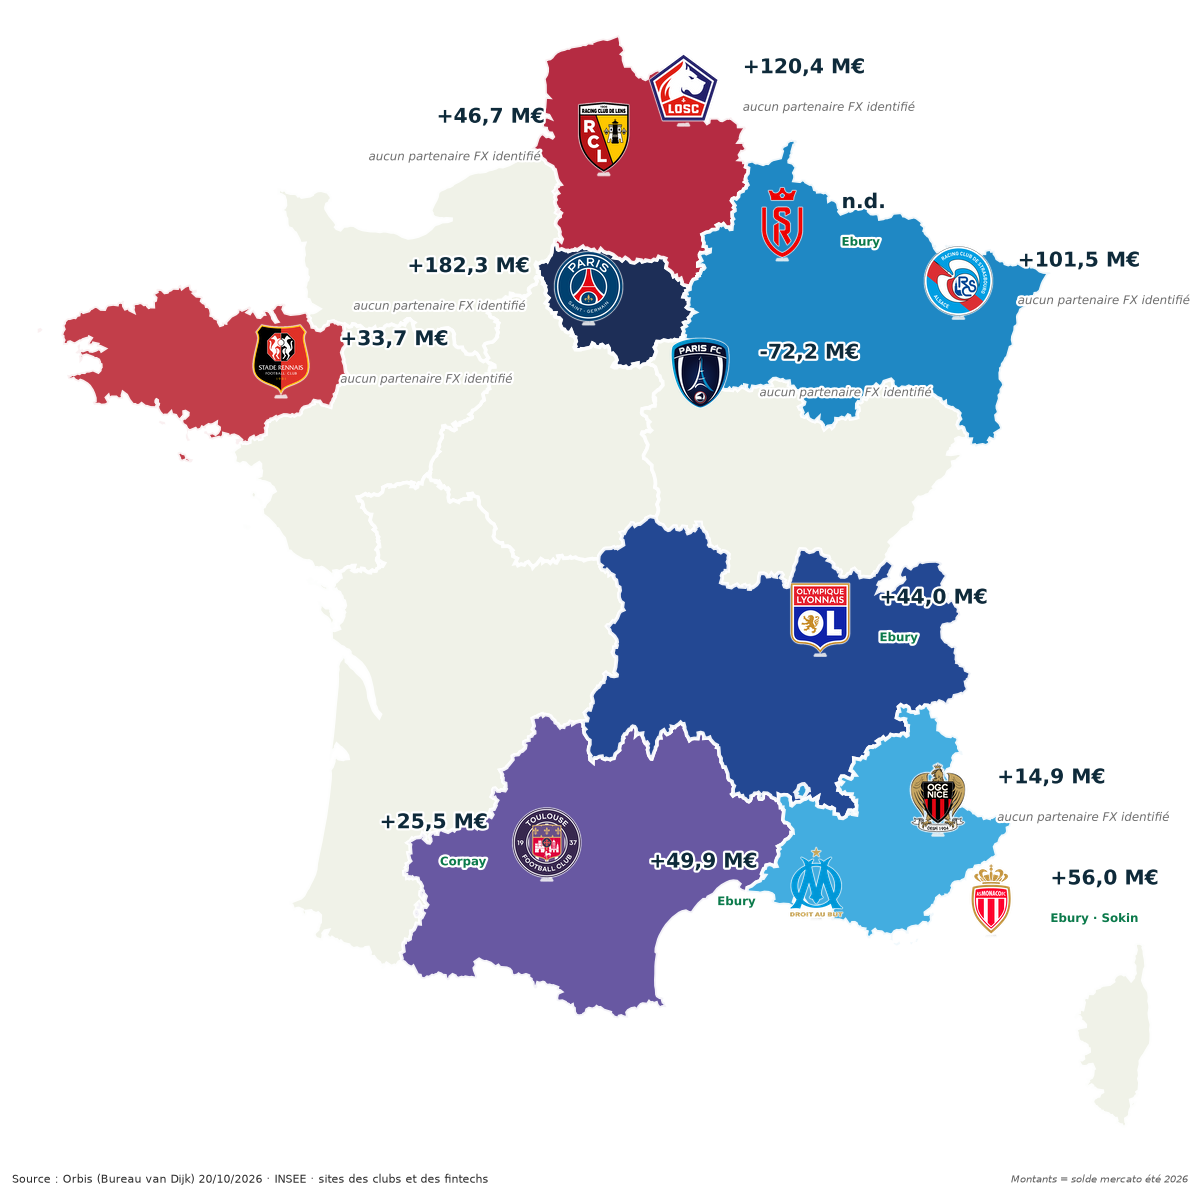
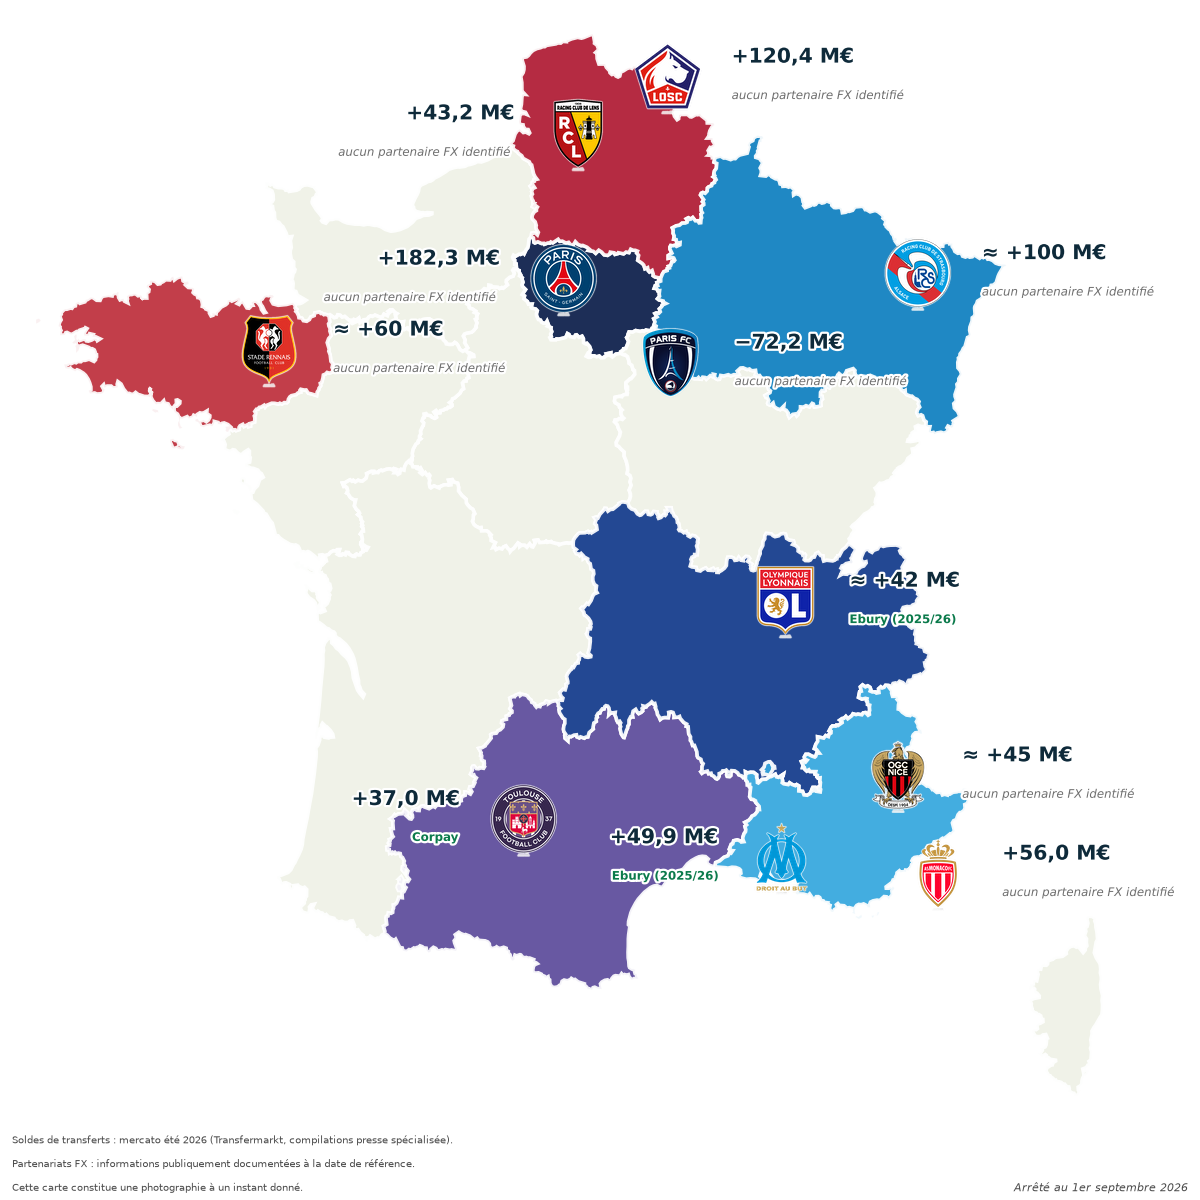
Carte finale: 11 clubs, soldes recoupes (Rennes, Nice, Lens, OL, TFC corriges), partenariats dates, Reims retire, methodologie en pied

diff --git a/linkedin/2026-10-23-FX-football/build_carte_couleurs.py b/linkedin/2026-10-23-FX-football/build_carte_couleurs.py
@@ -53,26 +53,31 @@ C_PARTNER = "#0B7A4B"        # vert plus visible, reste sobre
 C_NO = "#6E6E6E"
 
 # Offsets uniformes du bloc texte, relatifs au centre du logo
-DX = 0.78                    # distance horizontale logo -> texte
+DX = 0.88                    # distance horizontale logo -> texte
 DY_AMOUNT = 0.175            # montant au-dessus du centre
 DY_PARTNER = -0.175          # partenaire sous le centre
 F_AMOUNT = 14.6              # +12 % par rapport à 13.0
 F_PARTNER = 8.5
 
+METHOD = [
+    "Soldes de transferts : mercato été 2026 (Transfermarkt, compilations presse spécialisée).",
+    "Partenariats FX : informations publiquement documentées à la date de référence.",
+    "Cette carte constitue une photographie à un instant donné.",
+]
+
 # slug, lon, lat (centre logo), montant, partenaire, sens du texte (+1 droite / -1 gauche)
 CLUBS = [
-    ("losc", 3.40, 50.62, "+120,4 M€", NO_PARTNER, +1),
-    ("rcl",  2.35, 50.18, "+46,7 M€",  NO_PARTNER, -1),
-    ("psg",  2.15, 48.85, "+182,3 M€", NO_PARTNER, -1),
-    ("pfc",  3.62, 48.08, "-72,2 M€",  NO_PARTNER, +1),
-    ("sdr",  4.70, 49.42, "n.d.",      "Ebury",     +1),
-    ("rcsa", 7.02, 48.90, "+101,5 M€", NO_PARTNER, +1),
-    ("srfc", -1.90, 48.20, "+33,7 M€", NO_PARTNER, +1),
-    ("ol",   5.20, 45.90, "+44,0 M€",  "Ebury",      +1),
-    ("tfc",  1.60, 43.90, "+25,5 M€",  "Corpay",     -1),
-    ("om",   5.15, 43.55, "+49,9 M€",  "Ebury",     -1),
-    ("ogcn", 6.75, 44.30, "+14,9 M€",  NO_PARTNER, +1),
-    ("asm",  7.45, 43.40, "+56,0 M€",  "Ebury · Sokin", +1),
+    ("losc",  3.58, 50.70, "+120,4 M€",  NO_PARTNER, +1),
+    ("rcl",   2.35, 50.18, "+43,2 M€",   NO_PARTNER, -1),
+    ("psg",   2.15, 48.85, "+182,3 M€",  NO_PARTNER, -1),
+    ("pfc",   3.62, 48.08, "−72,2 M€",  NO_PARTNER, +1),
+    ("rcsa",  7.02, 48.90, "≈ +100 M€", NO_PARTNER, +1),
+    ("srfc", -1.90, 48.20, "≈ +60 M€",  NO_PARTNER, +1),
+    ("ol",    5.20, 45.90, "≈ +42 M€",  "Ebury (2025/26)", +1),
+    ("tfc",   1.60, 43.90, "+37,0 M€",   "Corpay",    -1),
+    ("om",    5.15, 43.55, "+49,9 M€",   "Ebury (2025/26)", -1),
+    ("ogcn",  6.75, 44.30, "≈ +45 M€",  NO_PARTNER, +1),
+    ("asm",   7.30, 43.40, "+56,0 M€",   NO_PARTNER, +1),
 ]
 
 FEATS = json.load(open(os.path.join(ASSETS, "regions.geojson")))["features"]
@@ -103,7 +108,7 @@ def build():
     fig = plt.figure(figsize=(W, H), dpi=DPI)
     fig.patch.set_facecolor(BG)
 
-    ax = fig.add_axes([0.0, 0.045, 1.0, 0.955])
+    ax = fig.add_axes([0.0, 0.072, 1.0, 0.928])
     ax.set_facecolor(BG)
     ax.axis("off")
 
@@ -117,7 +122,7 @@ def build():
             ax.add_patch(MPoly(ring, closed=True, fc=fc, ec="#FFFFFF", lw=2.6,
                                alpha=REGION_ALPHA, zorder=2))
 
-    ax.set_xlim(-5.6, 10.2)
+    ax.set_xlim(-5.6, 10.9)
     ax.set_ylim(41.2, 51.4)
     ax.set_aspect(AZ, adjustable="box")
 
@@ -151,12 +156,12 @@ def build():
                 style="normal" if covered else "italic",
                 ha=ha, va="center", zorder=8, path_effects=halo)
 
-    # ---- pied de page
-    fig.text(0.010, 0.017,
-             "Source : Orbis (Bureau van Dijk) 20/10/2026 · INSEE · sites des clubs et des fintechs",
-             fontsize=8.2, color="#2A2A2A", ha="left", va="center")
-    fig.text(0.990, 0.017, "Montants = solde mercato été 2026",
-             fontsize=7.0, color="#5A5A5A", ha="right", va="center",
+    # ---- pied de page : methodologie + date d'arret
+    for i, line in enumerate(METHOD):
+        fig.text(0.010, 0.010 + (len(METHOD) - 1 - i) * 0.0198, line,
+                 fontsize=7.0, color="#4A4A4A", ha="left", va="center")
+    fig.text(0.990, 0.010, "Arrêté au 1er septembre 2026",
+             fontsize=7.6, color="#4A4A4A", ha="right", va="center",
              style="italic")
 
     out = os.path.join(ASSETS, "10-carte-clubs-couleurs.png")

diff --git a/linkedin/2026-10-23-FX-football/POST-4-PHRASES.md b/linkedin/2026-10-23-FX-football/POST-4-PHRASES.md
@@ -1,20 +1,20 @@
 # Post LinkedIn — version courte (4 phrases)
 
 > Contrainte : 4 phrases. Les 5 hashtags en fin de post ne comptent pas.
-> Chiffres : 18 clubs de Ligue 1, 4 partenaires FX annoncés (Monaco, OM, Lyon, Toulouse), 14 sans couverture.
-> Reims est en Ligue 2 cette saison → à préciser en commentaire, pas dans le post.
+> Chiffres : 18 clubs de Ligue 1, 3 partenariats FX documentés (OM, Lyon, Toulouse), 15 sans.
+> Reims et Monaco ne sont plus cités : Reims est en Ligue 2, le partenariat de Monaco n'est pas assez clair.
 
 ---
 
 ## LE POST
 
-18 clubs de Ligue 1, 4 partenaires FX annoncés, 14 sans aucune couverture — alors que le mercato français a généré 1,33 Md€ de ventes cet été, avec le PSG seul à +182 M€ de solde.
+18 clubs de Ligue 1, 3 partenariats FX documentés, 15 sans aucune couverture — alors que le mercato français a généré 1,33 Md€ de ventes cet été, avec le PSG seul à +182,3 M€ de solde.
 
-Un club ne paie pas un joueur : il paie une indemnité en 3 à 5 échéances, des salaires dans 5 à 15 devises, des droits TV en dollars et du merchandising dans 20 pays — la complexité financière d'une multinationale, avec la trésorerie d'une PME.
+Un club ne paie pas un joueur : il paie une indemnité en 3 à 5 échéances, des salaires dans 5 à 15 devises, des droits TV en euros et du merchandising dans 20 pays — la complexité financière d'une multinationale, avec la trésorerie d'une PME.
 
-Sur un seul mercato, la Premier League a dépensé plus de 1,7 Md£ en joueurs venus de la zone euro, dont 22 M£ partis en change caché en 89 jours : le sponsoring est le cheval de Troie du FX B2B, et 14 clubs n'ont toujours rien annoncé.
+Sur un seul mercato, la Premier League a dépensé plus de 1,7 Md£ en joueurs venus de la zone euro, dont 22 M£ partis en change caché en 89 jours : le sponsoring est le cheval de Troie du FX B2B, et 15 clubs n'ont toujours rien annoncé.
 
-C'est pour ça que le FX m'intéresse : c'est la seule partie de la finance où l'on prouve à un directeur financier, chiffres en main, qu'il perd de l'argent sans le voir — carte et sources en commentaire, et si vous êtes chez Ebury, Corpay, Convera, iBanFirst ou Kantox, mes DM sont ouverts.
+C'est pour ça que le FX m'intéresse : c'est la seule partie de la finance où l'on prouve à un directeur financier, chiffres en main, qu'il perd de l'argent sans le voir.
 
 #FX #CorporateFX #CrossBorderPayments #Trésorerie #Fintech
 
@@ -24,14 +24,13 @@ C'est pour ça que le FX m'intéresse : c'est la seule partie de la finance où 
 
 Ce que la carte montre :
 
-→ Ebury chez Lyon, Monaco, Marseille — et Reims, en Ligue 2 cette saison
-→ Corpay Cross-Border chez Toulouse
-→ Sokin chez Monaco (2021-2024)
-→ 14 clubs de Ligue 1 sans partenaire FX annoncé, dont le PSG (+182 M€), le LOSC (+120 M€) et Strasbourg (+101 M€), les trois plus gros soldes mercato du championnat
+→ Ebury chez l'OM et l'OL — partenariats annoncés pour la saison 2025/2026
+→ Corpay Cross-Border chez Toulouse — pluriannuel, annoncé le 23/04/2026, seul partenariat en cours
+→ 15 clubs de Ligue 1 sans partenariat FX documenté, dont le PSG (+182,3 M€), le LOSC (+120,4 M€) et Strasbourg (≈ +100 M€), les trois plus gros soldes mercato du championnat
 
 Méthode : 64 646 sociétés françaises ≥ 5 M€ de CA sous Orbis (20/10/2026), 45 837 géolocalisées via INSEE. Les entreprises sont agrégées : aucun nom, aucun montant individuel publié. Les clubs sont nommés uniquement sur annonce publique du club ou de la fintech.
 
-Soldes mercato : Transfermarkt, relevé au 02/09/2026. Coût du change : étude Glyde reprise par The Fintech Times, 2026.
+Soldes mercato : Transfermarkt, compilations presse spécialisée, arrêtés au 01/09/2026. Coût du change : étude Glyde reprise par The Fintech Times, 2026.
 
 Carte : [lien PNG]
 
@@ -39,5 +38,5 @@ Carte : [lien PNG]
 
 ## LIENS
 
-PNG : https://github.com/Calvin29990/SKEMA-FRONT/raw/arena/b1d047d9-skema-front/docs/assets/carte-clubs-fx.png
+PNG : https://github.com/Calvin29990/SKEMA-FRONT/raw/arena/b1d047d9-skema-front/docs/assets/carte-clubs-couleurs.png
 Excel (si demandé) : https://github.com/Calvin29990/SKEMA-FRONT/raw/arena/b1d047d9-skema-front/docs/assets/teaser-FX-football.xlsx
